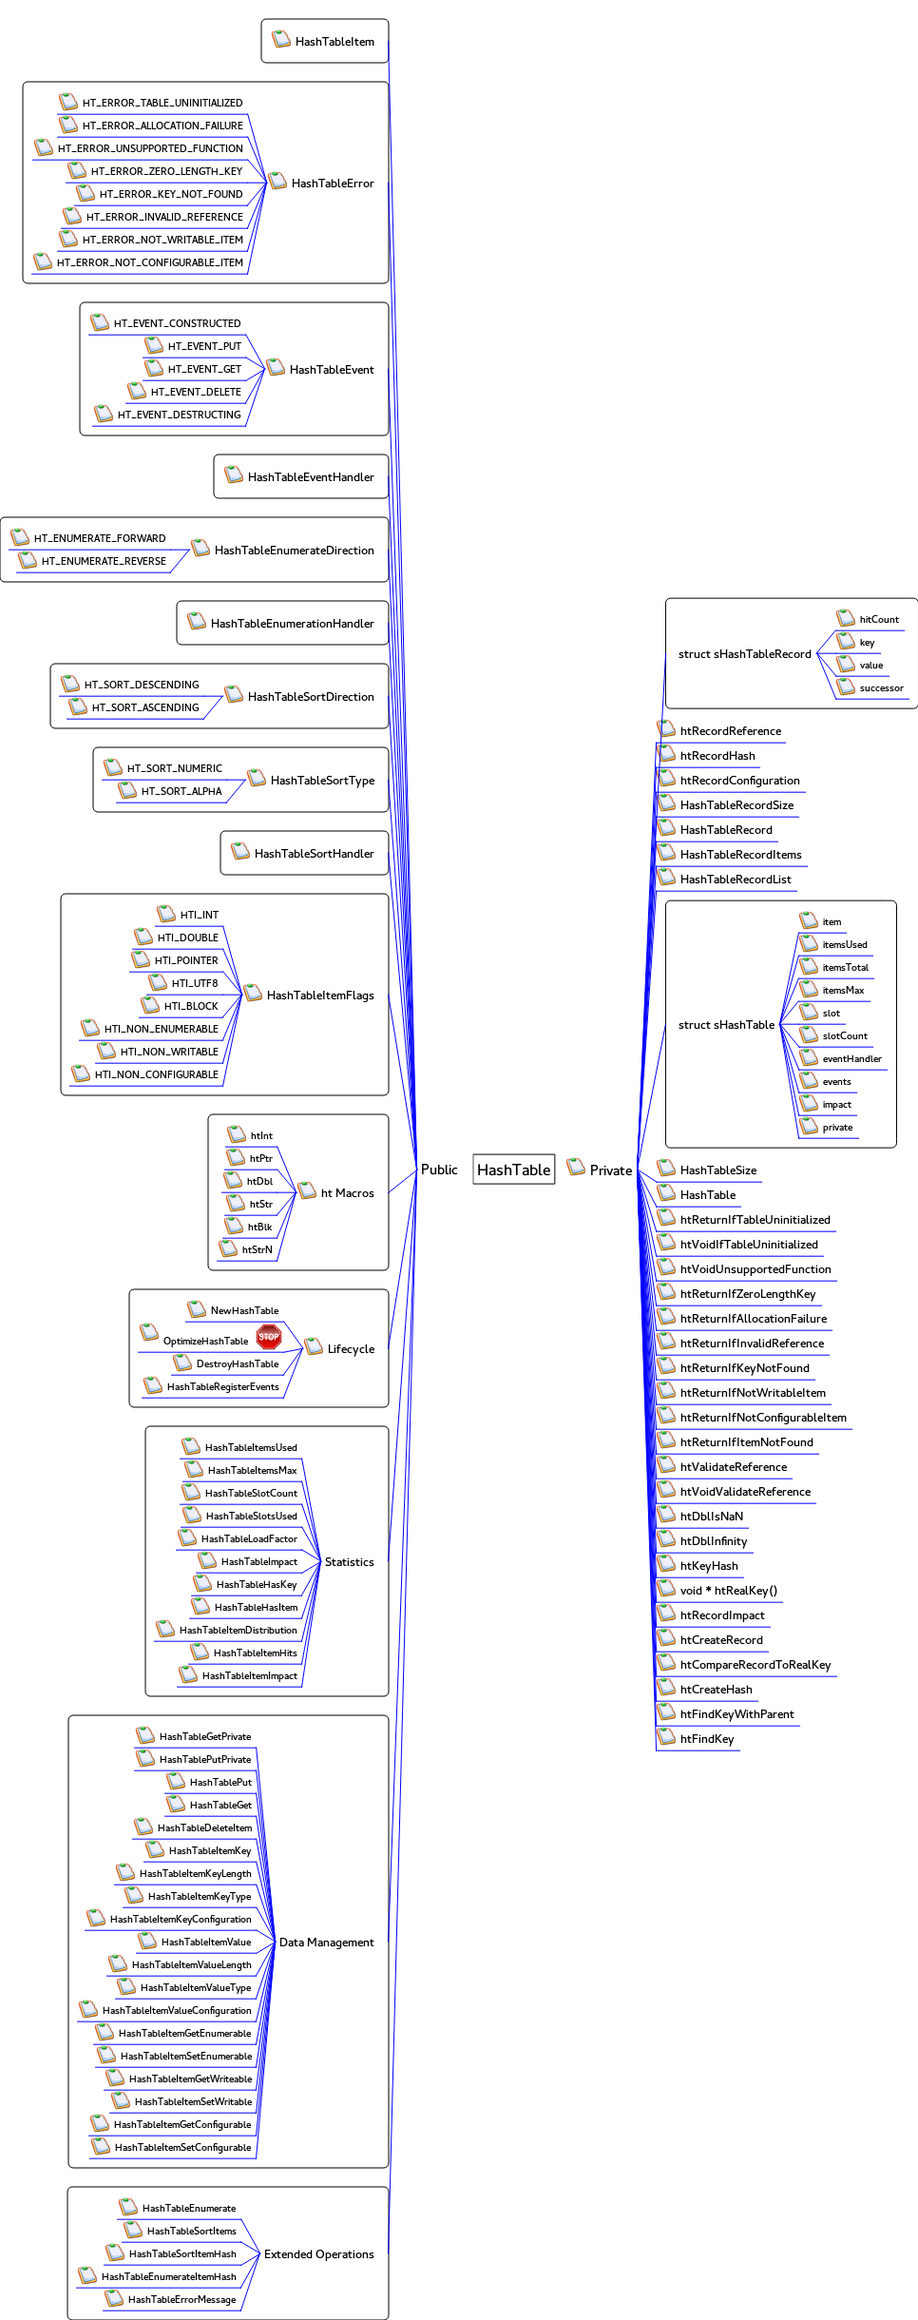
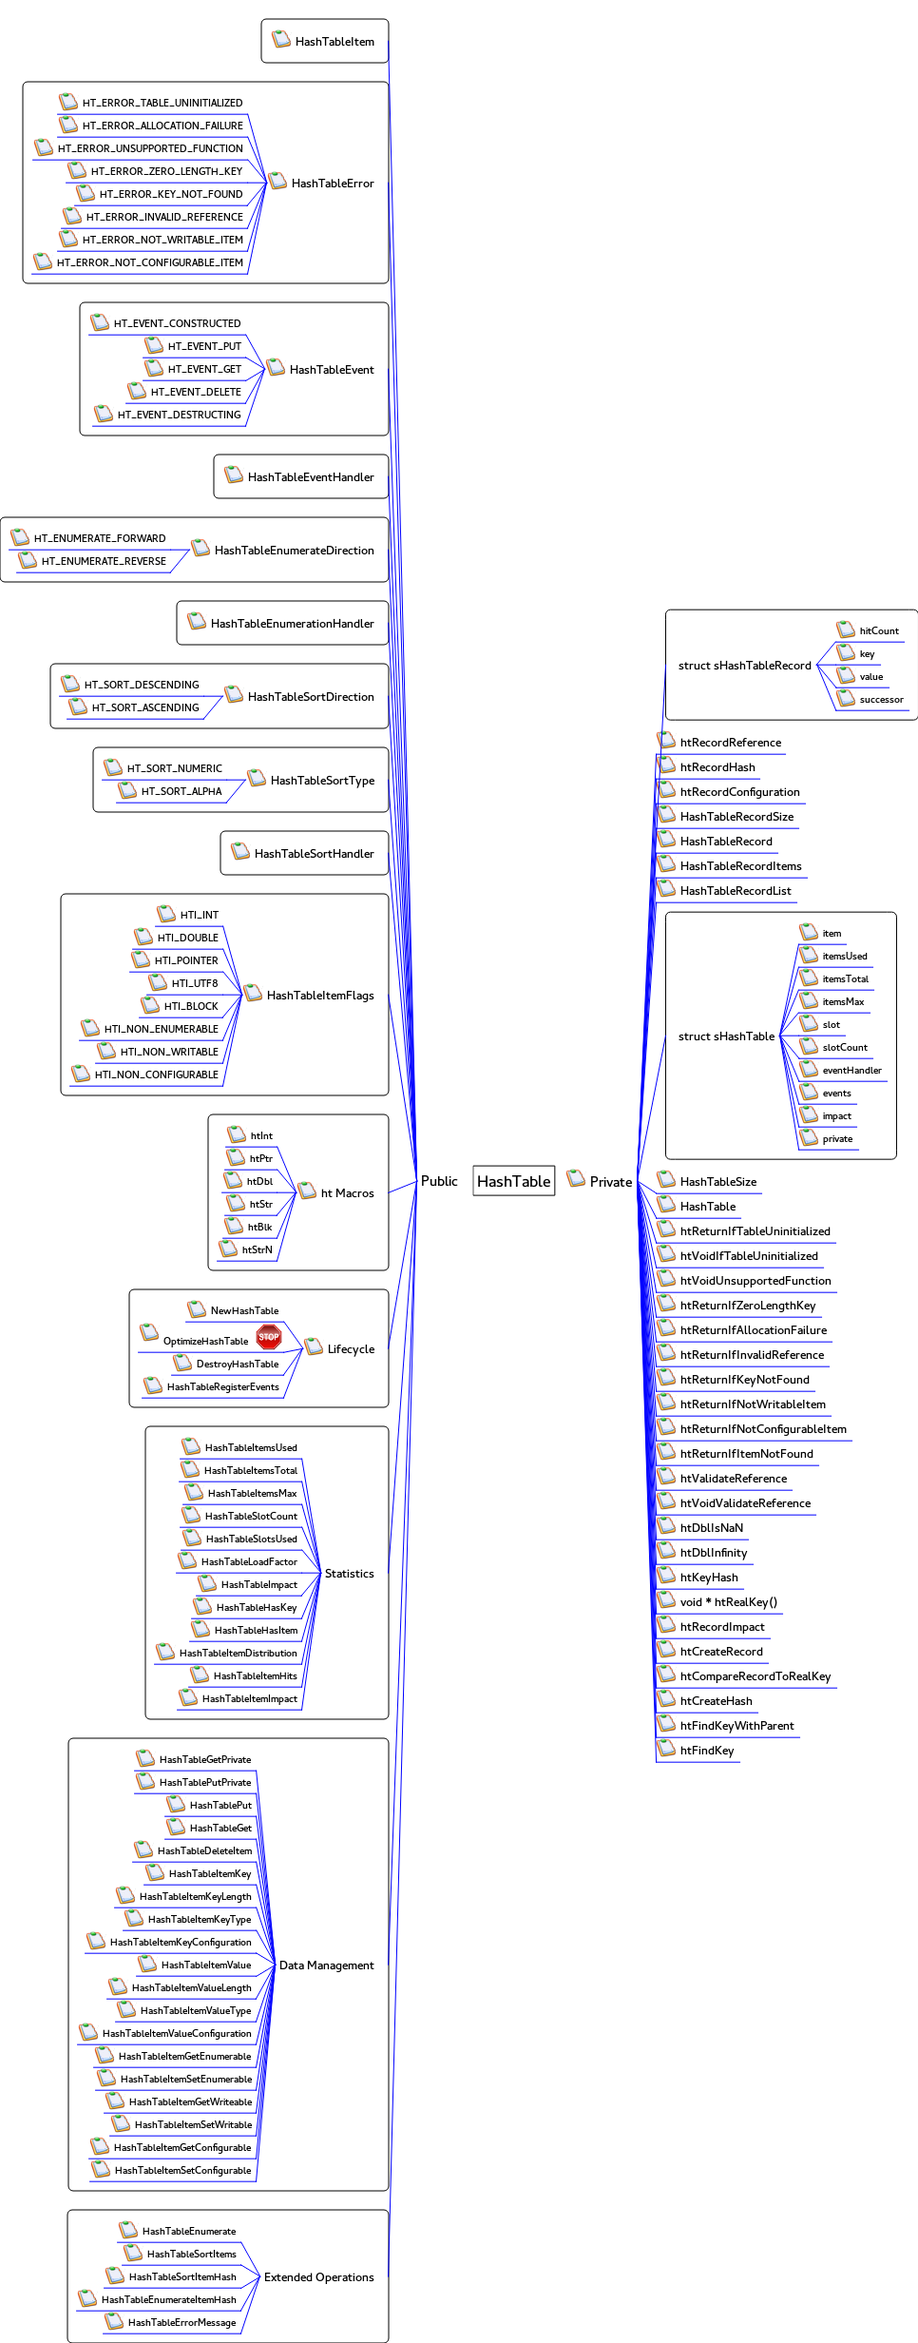
Added hash table items total statistic

diff --git a/HashTable.html b/HashTable.html
@@ -266,55 +266,60 @@ void HashTableRegisterEvents(HashTable ht, HashTableEvent withEvents, HashTableE
 <li><span class='vym-branch2'  id='mc:0,bo:0,bo:12'>Statistics</span><ul>
 <li><span class='vym-branch3'  id='mc:0,bo:0,bo:12,bo:0'>HashTableItemsUsed</span>
 <table class="vym-note"><tr><td>
-size_t HashTableItemsUsed<br/>(<br/>	HashTable ht<br/>)<br/><br/>Returns the number of item references currently defined.<br/>
+size_t HashTableItemsUsed<br/>(<br/>	HashTable ht<br/>)<br/><br/>Returns the number of item references currently dispatched. This number includes items which have been deleted.<br/>
 </td></tr></table>
 </li>
-<li><span class='vym-branch3'  id='mc:0,bo:0,bo:12,bo:1'>HashTableItemsMax</span>
+<li><span class='vym-branch3'  id='mc:0,bo:0,bo:12,bo:1'>HashTableItemsTotal</span>
+<table class="vym-note"><tr><td>
+size_t HashTableItemsTotal<br/>(<br/>	HashTable ht<br/>)<br/><br/>Returns the current number of valid item references.<br/>
+</td></tr></table>
+</li>
+<li><span class='vym-branch3'  id='mc:0,bo:0,bo:12,bo:2'>HashTableItemsMax</span>
 <table class="vym-note"><tr><td>
 size_t HashTableItemsMax<br/>(<br/>	HashTable hashTable<br/>)<br/><br/>Returns the current maximum number of item references. The maximum number of item references grows as needed. This procedure is provided mostly for instrumentation purposes.<br/>
 </td></tr></table>
 </li>
-<li><span class='vym-branch3'  id='mc:0,bo:0,bo:12,bo:2'>HashTableSlotCount</span>
+<li><span class='vym-branch3'  id='mc:0,bo:0,bo:12,bo:3'>HashTableSlotCount</span>
 <table class="vym-note"><tr><td>
 size_t HashTableSlotCount(HashTable ht)<br/><br/>Returns the total number of slots for a particular hash table.<br/>
 </td></tr></table>
 </li>
-<li><span class='vym-branch3'  id='mc:0,bo:0,bo:12,bo:3'>HashTableSlotsUsed</span>
+<li><span class='vym-branch3'  id='mc:0,bo:0,bo:12,bo:4'>HashTableSlotsUsed</span>
 <table class="vym-note"><tr><td>
 size_t HashTableSlotsUsed(HashTable ht)<br/><br/>Returns the number of slots containing one or more records.<br/>
 </td></tr></table>
 </li>
-<li><span class='vym-branch3'  id='mc:0,bo:0,bo:12,bo:4'>HashTableLoadFactor</span>
+<li><span class='vym-branch3'  id='mc:0,bo:0,bo:12,bo:5'>HashTableLoadFactor</span>
 <table class="vym-note"><tr><td>
 double HashTableLoadFactor(HashTable ht)<br/><br/>Returns the total number of hash table records divided by the number of slots for a particular hash table.<br/>
 </td></tr></table>
 </li>
-<li><span class='vym-branch3'  id='mc:0,bo:0,bo:12,bo:5'>HashTableImpact</span>
+<li><span class='vym-branch3'  id='mc:0,bo:0,bo:12,bo:6'>HashTableImpact</span>
 <table class="vym-note"><tr><td>
 size_t HashTableImpact(HashTable ht)<br/><br/>Get report on how many logical bytes this hash table occupies in memory.<br/>
 </td></tr></table>
 </li>
-<li><span class='vym-branch3'  id='mc:0,bo:0,bo:12,bo:6'>HashTableHasKey</span>
+<li><span class='vym-branch3'  id='mc:0,bo:0,bo:12,bo:7'>HashTableHasKey</span>
 <table class="vym-note"><tr><td>
 HashTableItem HashTableHasKey<br/>(<br/>	HashTable hashTable,<br/>	size_t keyLength,<br/>	double key,<br/>	HashTableItemFlags hint<br/>)<br/><br/>This procedure works mostly like HashTableGet, except it does not raise events, and will not throw an error if the key is not found.<br/><br/>Technically the return type for this procedure is bool, however to save API calls, it actually returns the item reference if the key is found due to the fact that item references are factually boolean return values.<br/>
 </td></tr></table>
 </li>
-<li><span class='vym-branch3'  id='mc:0,bo:0,bo:12,bo:7'>HashTableHasItem</span>
+<li><span class='vym-branch3'  id='mc:0,bo:0,bo:12,bo:8'>HashTableHasItem</span>
 <table class="vym-note"><tr><td>
 bool HashTableHasItem<br/>(<br/>	HashTable hashTable,<br/>	HashTableItem reference<br/>)<br/><br/>This procedure checks to see if the reference is in range and if the reference is non-null. Only throws an error if the hash table is uninitialized.<br/><br/>Use this procedure to perform manual enumerations and sorting decisions based on reference existence.<br/>
 </td></tr></table>
 </li>
-<li><span class='vym-branch3'  id='mc:0,bo:0,bo:12,bo:8'>HashTableItemDistribution</span>
+<li><span class='vym-branch3'  id='mc:0,bo:0,bo:12,bo:9'>HashTableItemDistribution</span>
 <table class="vym-note"><tr><td>
 size_t HashTableItemDistribution<br/>(<br/>	HashTable hashTable,<br/>	HashTableItem reference<br/>)<br/><br/>Generate a report on how many entries are associated with an item's hash.
 </td></tr></table>
 </li>
-<li><span class='vym-branch3'  id='mc:0,bo:0,bo:12,bo:9'>HashTableItemHits</span>
+<li><span class='vym-branch3'  id='mc:0,bo:0,bo:12,bo:10'>HashTableItemHits</span>
 <table class="vym-note"><tr><td>
 size_t HashTableItemHits(HashTable ht, HashTableItem reference)<br/><br/>Returns the number of times a hash table item has been set or requested. This operation does not alter any items in the hash table nor does it alter the hash table itself.<br/>
 </td></tr></table>
 </li>
-<li><span class='vym-branch3'  id='mc:0,bo:0,bo:12,bo:10'>HashTableItemImpact</span>
+<li><span class='vym-branch3'  id='mc:0,bo:0,bo:12,bo:11'>HashTableItemImpact</span>
 <table class="vym-note"><tr><td>
 size_t HashTableItemImpact(HashTable ht, HashTableItem reference)<br/><br/>Generates a report on the total number of bytes used to store an item.<br/>
 </td></tr></table>
@@ -689,8 +694,8 @@ HashTableRecord htFindKey(HashTable table, size_t keyLength, void * realKey)<br/
 </li>
 </ul>
 <map name='imagemap'>
-  <area shape='rect' coords='497.851,1214.11,583.851,1245.11' href='#mc:0'>
-  <area shape='rect' coords='439,1215.5,487,1244.5' href='#mc:0,bo:0'>
+  <area shape='rect' coords='497.851,1226.11,583.851,1257.11' href='#mc:0'>
+  <area shape='rect' coords='439,1227.5,487,1256.5' href='#mc:0,bo:0'>
   <area shape='rect' coords='307,30,399,56' href='#mc:0,bo:0,bo:0'>
   <area shape='rect' coords='303,179,399,205' href='#mc:0,bo:0,bo:1'>
   <area shape='rect' coords='83,96,261,120' href='#mc:0,bo:0,bo:1,bo:0'>
@@ -740,92 +745,93 @@ HashTableRecord htFindKey(HashTable table, size_t keyLength, void * realKey)<br/
   <area shape='rect' coords='168,1398,267,1422' href='#mc:0,bo:0,bo:11,bo:1'>
   <area shape='rect' coords='203,1422,299,1446' href='#mc:0,bo:0,bo:11,bo:2'>
   <area shape='rect' coords='172,1446,299,1470' href='#mc:0,bo:0,bo:11,bo:3'>
-  <area shape='rect' coords='338,1629,399,1655' href='#mc:0,bo:0,bo:12'>
+  <area shape='rect' coords='338,1641,399,1667' href='#mc:0,bo:0,bo:12'>
   <area shape='rect' coords='212,1510,318,1534' href='#mc:0,bo:0,bo:12,bo:0'>
-  <area shape='rect' coords='215,1534,318,1558' href='#mc:0,bo:0,bo:12,bo:1'>
-  <area shape='rect' coords='212,1558,318,1582' href='#mc:0,bo:0,bo:12,bo:2'>
-  <area shape='rect' coords='213,1582,318,1606' href='#mc:0,bo:0,bo:12,bo:3'>
-  <area shape='rect' coords='208,1606,318,1630' href='#mc:0,bo:0,bo:12,bo:4'>
-  <area shape='rect' coords='229,1630,318,1654' href='#mc:0,bo:0,bo:12,bo:5'>
-  <area shape='rect' coords='224,1654,318,1678' href='#mc:0,bo:0,bo:12,bo:6'>
-  <area shape='rect' coords='222,1678,318,1702' href='#mc:0,bo:0,bo:12,bo:7'>
-  <area shape='rect' coords='185,1702,318,1726' href='#mc:0,bo:0,bo:12,bo:8'>
-  <area shape='rect' coords='221,1726,318,1750' href='#mc:0,bo:0,bo:12,bo:9'>
-  <area shape='rect' coords='209,1750,318,1774' href='#mc:0,bo:0,bo:12,bo:10'>
-  <area shape='rect' coords='290,2029,399,2055' href='#mc:0,bo:0,bo:13'>
-  <area shape='rect' coords='164,1814,270,1838' href='#mc:0,bo:0,bo:13,bo:0'>
-  <area shape='rect' coords='164,1838,270,1862' href='#mc:0,bo:0,bo:13,bo:1'>
-  <area shape='rect' coords='196,1862,270,1886' href='#mc:0,bo:0,bo:13,bo:2'>
-  <area shape='rect' coords='196,1886,270,1910' href='#mc:0,bo:0,bo:13,bo:3'>
-  <area shape='rect' coords='162,1910,270,1934' href='#mc:0,bo:0,bo:13,bo:4'>
-  <area shape='rect' coords='174,1934,270,1958' href='#mc:0,bo:0,bo:13,bo:5'>
-  <area shape='rect' coords='143,1958,270,1982' href='#mc:0,bo:0,bo:13,bo:6'>
-  <area shape='rect' coords='152,1982,270,2006' href='#mc:0,bo:0,bo:13,bo:7'>
-  <area shape='rect' coords='112,2006,270,2030' href='#mc:0,bo:0,bo:13,bo:8'>
-  <area shape='rect' coords='166,2030,270,2054' href='#mc:0,bo:0,bo:13,bo:9'>
-  <area shape='rect' coords='135,2054,270,2078' href='#mc:0,bo:0,bo:13,bo:10'>
-  <area shape='rect' coords='144,2078,270,2102' href='#mc:0,bo:0,bo:13,bo:11'>
-  <area shape='rect' coords='104,2102,270,2126' href='#mc:0,bo:0,bo:13,bo:12'>
-  <area shape='rect' coords='121,2126,270,2150' href='#mc:0,bo:0,bo:13,bo:13'>
-  <area shape='rect' coords='123,2150,270,2174' href='#mc:0,bo:0,bo:13,bo:14'>
-  <area shape='rect' coords='132,2174,270,2198' href='#mc:0,bo:0,bo:13,bo:15'>
-  <area shape='rect' coords='138,2198,270,2222' href='#mc:0,bo:0,bo:13,bo:16'>
-  <area shape='rect' coords='116,2222,270,2246' href='#mc:0,bo:0,bo:13,bo:17'>
-  <area shape='rect' coords='117,2246,270,2270' href='#mc:0,bo:0,bo:13,bo:18'>
-  <area shape='rect' coords='274,2357,399,2383' href='#mc:0,bo:0,bo:14'>
-  <area shape='rect' coords='146,2310,254,2334' href='#mc:0,bo:0,bo:14,bo:0'>
-  <area shape='rect' coords='151,2334,254,2358' href='#mc:0,bo:0,bo:14,bo:1'>
-  <area shape='rect' coords='132,2358,254,2382' href='#mc:0,bo:0,bo:14,bo:2'>
-  <area shape='rect' coords='103,2382,254,2406' href='#mc:0,bo:0,bo:14,bo:3'>
-  <area shape='rect' coords='131,2406,254,2430' href='#mc:0,bo:0,bo:14,bo:4'>
-  <area shape='rect' coords='617.471,1215.66,670.471,1244.66' href='#mc:0,bo:1'>
-  <area shape='rect' coords='710.471,674.164,859.471,700.164' href='#mc:0,bo:1,bo:0'>
-  <area shape='rect' coords='901.471,639.164,951.471,663.164' href='#mc:0,bo:1,bo:0,bo:0'>
-  <area shape='rect' coords='901.471,663.164,926.471,687.164' href='#mc:0,bo:1,bo:0,bo:1'>
-  <area shape='rect' coords='901.471,687.164,935.471,711.164' href='#mc:0,bo:1,bo:0,bo:2'>
-  <area shape='rect' coords='901.471,711.164,956.471,735.164' href='#mc:0,bo:1,bo:0,bo:3'>
-  <area shape='rect' coords='712.471,755.164,826.471,781.164' href='#mc:0,bo:1,bo:1'>
-  <area shape='rect' coords='712.471,781.164,799.471,807.164' href='#mc:0,bo:1,bo:2'>
-  <area shape='rect' coords='712.471,807.164,847.471,833.164' href='#mc:0,bo:1,bo:3'>
-  <area shape='rect' coords='712.471,833.164,840.471,859.164' href='#mc:0,bo:1,bo:4'>
-  <area shape='rect' coords='712.471,859.164,818.471,885.164' href='#mc:0,bo:1,bo:5'>
-  <area shape='rect' coords='712.471,885.164,849.471,911.164' href='#mc:0,bo:1,bo:6'>
-  <area shape='rect' coords='712.471,911.164,838.471,937.164' href='#mc:0,bo:1,bo:7'>
-  <area shape='rect' coords='710.471,1064.16,820.471,1090.16' href='#mc:0,bo:1,bo:8'>
-  <area shape='rect' coords='862.471,957.164,890.471,981.164' href='#mc:0,bo:1,bo:8,bo:0'>
-  <area shape='rect' coords='862.471,981.164,918.471,1005.16' href='#mc:0,bo:1,bo:8,bo:1'>
-  <area shape='rect' coords='862.471,1005.16,919.471,1029.16' href='#mc:0,bo:1,bo:8,bo:2'>
-  <area shape='rect' coords='862.471,1029.16,915.471,1053.16' href='#mc:0,bo:1,bo:8,bo:3'>
-  <area shape='rect' coords='862.471,1053.16,889.471,1077.16' href='#mc:0,bo:1,bo:8,bo:4'>
-  <area shape='rect' coords='862.471,1077.16,918.471,1101.16' href='#mc:0,bo:1,bo:8,bo:5'>
-  <area shape='rect' coords='862.471,1101.16,933.471,1125.16' href='#mc:0,bo:1,bo:8,bo:6'>
-  <area shape='rect' coords='862.471,1125.16,901.471,1149.16' href='#mc:0,bo:1,bo:8,bo:7'>
-  <area shape='rect' coords='862.471,1149.16,901.471,1173.16' href='#mc:0,bo:1,bo:8,bo:8'>
-  <area shape='rect' coords='862.471,1173.16,903.471,1197.16' href='#mc:0,bo:1,bo:8,bo:9'>
-  <area shape='rect' coords='712.471,1217.16,801.471,1243.16' href='#mc:0,bo:1,bo:9'>
-  <area shape='rect' coords='712.471,1243.16,779.471,1269.16' href='#mc:0,bo:1,bo:10'>
-  <area shape='rect' coords='712.471,1269.16,879.471,1295.16' href='#mc:0,bo:1,bo:11'>
-  <area shape='rect' coords='712.471,1295.16,866.471,1321.16' href='#mc:0,bo:1,bo:12'>
-  <area shape='rect' coords='712.471,1321.16,880.471,1347.16' href='#mc:0,bo:1,bo:13'>
-  <area shape='rect' coords='712.471,1347.16,864.471,1373.16' href='#mc:0,bo:1,bo:14'>
-  <area shape='rect' coords='712.471,1373.16,875.471,1399.16' href='#mc:0,bo:1,bo:15'>
-  <area shape='rect' coords='712.471,1399.16,872.471,1425.16' href='#mc:0,bo:1,bo:16'>
-  <area shape='rect' coords='712.471,1425.16,857.471,1451.16' href='#mc:0,bo:1,bo:17'>
-  <area shape='rect' coords='712.471,1451.16,874.471,1477.16' href='#mc:0,bo:1,bo:18'>
-  <area shape='rect' coords='712.471,1477.16,896.471,1503.16' href='#mc:0,bo:1,bo:19'>
-  <area shape='rect' coords='712.471,1503.16,861.471,1529.16' href='#mc:0,bo:1,bo:20'>
-  <area shape='rect' coords='712.471,1529.16,833.471,1555.16' href='#mc:0,bo:1,bo:21'>
-  <area shape='rect' coords='712.471,1555.16,858.471,1581.16' href='#mc:0,bo:1,bo:22'>
-  <area shape='rect' coords='712.471,1581.16,787.471,1607.16' href='#mc:0,bo:1,bo:23'>
-  <area shape='rect' coords='712.471,1607.16,792.471,1633.16' href='#mc:0,bo:1,bo:24'>
-  <area shape='rect' coords='712.471,1633.16,782.471,1659.16' href='#mc:0,bo:1,bo:25'>
-  <area shape='rect' coords='712.471,1659.16,823.471,1685.16' href='#mc:0,bo:1,bo:26'>
-  <area shape='rect' coords='712.471,1685.16,810.471,1711.16' href='#mc:0,bo:1,bo:27'>
-  <area shape='rect' coords='712.471,1711.16,808.471,1737.16' href='#mc:0,bo:1,bo:28'>
-  <area shape='rect' coords='712.471,1737.16,880.471,1763.16' href='#mc:0,bo:1,bo:29'>
-  <area shape='rect' coords='712.471,1763.16,797.471,1789.16' href='#mc:0,bo:1,bo:30'>
-  <area shape='rect' coords='712.471,1789.16,841.471,1815.16' href='#mc:0,bo:1,bo:31'>
-  <area shape='rect' coords='712.471,1815.16,778.471,1841.16' href='#mc:0,bo:1,bo:32'>
+  <area shape='rect' coords='211,1534,318,1558' href='#mc:0,bo:0,bo:12,bo:1'>
+  <area shape='rect' coords='215,1558,318,1582' href='#mc:0,bo:0,bo:12,bo:2'>
+  <area shape='rect' coords='212,1582,318,1606' href='#mc:0,bo:0,bo:12,bo:3'>
+  <area shape='rect' coords='213,1606,318,1630' href='#mc:0,bo:0,bo:12,bo:4'>
+  <area shape='rect' coords='208,1630,318,1654' href='#mc:0,bo:0,bo:12,bo:5'>
+  <area shape='rect' coords='229,1654,318,1678' href='#mc:0,bo:0,bo:12,bo:6'>
+  <area shape='rect' coords='224,1678,318,1702' href='#mc:0,bo:0,bo:12,bo:7'>
+  <area shape='rect' coords='222,1702,318,1726' href='#mc:0,bo:0,bo:12,bo:8'>
+  <area shape='rect' coords='185,1726,318,1750' href='#mc:0,bo:0,bo:12,bo:9'>
+  <area shape='rect' coords='221,1750,318,1774' href='#mc:0,bo:0,bo:12,bo:10'>
+  <area shape='rect' coords='209,1774,318,1798' href='#mc:0,bo:0,bo:12,bo:11'>
+  <area shape='rect' coords='290,2053,399,2079' href='#mc:0,bo:0,bo:13'>
+  <area shape='rect' coords='164,1838,270,1862' href='#mc:0,bo:0,bo:13,bo:0'>
+  <area shape='rect' coords='164,1862,270,1886' href='#mc:0,bo:0,bo:13,bo:1'>
+  <area shape='rect' coords='196,1886,270,1910' href='#mc:0,bo:0,bo:13,bo:2'>
+  <area shape='rect' coords='196,1910,270,1934' href='#mc:0,bo:0,bo:13,bo:3'>
+  <area shape='rect' coords='162,1934,270,1958' href='#mc:0,bo:0,bo:13,bo:4'>
+  <area shape='rect' coords='174,1958,270,1982' href='#mc:0,bo:0,bo:13,bo:5'>
+  <area shape='rect' coords='143,1982,270,2006' href='#mc:0,bo:0,bo:13,bo:6'>
+  <area shape='rect' coords='152,2006,270,2030' href='#mc:0,bo:0,bo:13,bo:7'>
+  <area shape='rect' coords='112,2030,270,2054' href='#mc:0,bo:0,bo:13,bo:8'>
+  <area shape='rect' coords='166,2054,270,2078' href='#mc:0,bo:0,bo:13,bo:9'>
+  <area shape='rect' coords='135,2078,270,2102' href='#mc:0,bo:0,bo:13,bo:10'>
+  <area shape='rect' coords='144,2102,270,2126' href='#mc:0,bo:0,bo:13,bo:11'>
+  <area shape='rect' coords='104,2126,270,2150' href='#mc:0,bo:0,bo:13,bo:12'>
+  <area shape='rect' coords='121,2150,270,2174' href='#mc:0,bo:0,bo:13,bo:13'>
+  <area shape='rect' coords='123,2174,270,2198' href='#mc:0,bo:0,bo:13,bo:14'>
+  <area shape='rect' coords='132,2198,270,2222' href='#mc:0,bo:0,bo:13,bo:15'>
+  <area shape='rect' coords='138,2222,270,2246' href='#mc:0,bo:0,bo:13,bo:16'>
+  <area shape='rect' coords='116,2246,270,2270' href='#mc:0,bo:0,bo:13,bo:17'>
+  <area shape='rect' coords='117,2270,270,2294' href='#mc:0,bo:0,bo:13,bo:18'>
+  <area shape='rect' coords='274,2381,399,2407' href='#mc:0,bo:0,bo:14'>
+  <area shape='rect' coords='146,2334,254,2358' href='#mc:0,bo:0,bo:14,bo:0'>
+  <area shape='rect' coords='151,2358,254,2382' href='#mc:0,bo:0,bo:14,bo:1'>
+  <area shape='rect' coords='132,2382,254,2406' href='#mc:0,bo:0,bo:14,bo:2'>
+  <area shape='rect' coords='103,2406,254,2430' href='#mc:0,bo:0,bo:14,bo:3'>
+  <area shape='rect' coords='131,2430,254,2454' href='#mc:0,bo:0,bo:14,bo:4'>
+  <area shape='rect' coords='617.471,1227.66,670.471,1256.66' href='#mc:0,bo:1'>
+  <area shape='rect' coords='710.471,686.164,859.471,712.164' href='#mc:0,bo:1,bo:0'>
+  <area shape='rect' coords='901.471,651.164,951.471,675.164' href='#mc:0,bo:1,bo:0,bo:0'>
+  <area shape='rect' coords='901.471,675.164,926.471,699.164' href='#mc:0,bo:1,bo:0,bo:1'>
+  <area shape='rect' coords='901.471,699.164,935.471,723.164' href='#mc:0,bo:1,bo:0,bo:2'>
+  <area shape='rect' coords='901.471,723.164,956.471,747.164' href='#mc:0,bo:1,bo:0,bo:3'>
+  <area shape='rect' coords='712.471,767.164,826.471,793.164' href='#mc:0,bo:1,bo:1'>
+  <area shape='rect' coords='712.471,793.164,799.471,819.164' href='#mc:0,bo:1,bo:2'>
+  <area shape='rect' coords='712.471,819.164,847.471,845.164' href='#mc:0,bo:1,bo:3'>
+  <area shape='rect' coords='712.471,845.164,840.471,871.164' href='#mc:0,bo:1,bo:4'>
+  <area shape='rect' coords='712.471,871.164,818.471,897.164' href='#mc:0,bo:1,bo:5'>
+  <area shape='rect' coords='712.471,897.164,849.471,923.164' href='#mc:0,bo:1,bo:6'>
+  <area shape='rect' coords='712.471,923.164,838.471,949.164' href='#mc:0,bo:1,bo:7'>
+  <area shape='rect' coords='710.471,1076.16,820.471,1102.16' href='#mc:0,bo:1,bo:8'>
+  <area shape='rect' coords='862.471,969.164,890.471,993.164' href='#mc:0,bo:1,bo:8,bo:0'>
+  <area shape='rect' coords='862.471,993.164,918.471,1017.16' href='#mc:0,bo:1,bo:8,bo:1'>
+  <area shape='rect' coords='862.471,1017.16,919.471,1041.16' href='#mc:0,bo:1,bo:8,bo:2'>
+  <area shape='rect' coords='862.471,1041.16,915.471,1065.16' href='#mc:0,bo:1,bo:8,bo:3'>
+  <area shape='rect' coords='862.471,1065.16,889.471,1089.16' href='#mc:0,bo:1,bo:8,bo:4'>
+  <area shape='rect' coords='862.471,1089.16,918.471,1113.16' href='#mc:0,bo:1,bo:8,bo:5'>
+  <area shape='rect' coords='862.471,1113.16,933.471,1137.16' href='#mc:0,bo:1,bo:8,bo:6'>
+  <area shape='rect' coords='862.471,1137.16,901.471,1161.16' href='#mc:0,bo:1,bo:8,bo:7'>
+  <area shape='rect' coords='862.471,1161.16,901.471,1185.16' href='#mc:0,bo:1,bo:8,bo:8'>
+  <area shape='rect' coords='862.471,1185.16,903.471,1209.16' href='#mc:0,bo:1,bo:8,bo:9'>
+  <area shape='rect' coords='712.471,1229.16,801.471,1255.16' href='#mc:0,bo:1,bo:9'>
+  <area shape='rect' coords='712.471,1255.16,779.471,1281.16' href='#mc:0,bo:1,bo:10'>
+  <area shape='rect' coords='712.471,1281.16,879.471,1307.16' href='#mc:0,bo:1,bo:11'>
+  <area shape='rect' coords='712.471,1307.16,866.471,1333.16' href='#mc:0,bo:1,bo:12'>
+  <area shape='rect' coords='712.471,1333.16,880.471,1359.16' href='#mc:0,bo:1,bo:13'>
+  <area shape='rect' coords='712.471,1359.16,864.471,1385.16' href='#mc:0,bo:1,bo:14'>
+  <area shape='rect' coords='712.471,1385.16,875.471,1411.16' href='#mc:0,bo:1,bo:15'>
+  <area shape='rect' coords='712.471,1411.16,872.471,1437.16' href='#mc:0,bo:1,bo:16'>
+  <area shape='rect' coords='712.471,1437.16,857.471,1463.16' href='#mc:0,bo:1,bo:17'>
+  <area shape='rect' coords='712.471,1463.16,874.471,1489.16' href='#mc:0,bo:1,bo:18'>
+  <area shape='rect' coords='712.471,1489.16,896.471,1515.16' href='#mc:0,bo:1,bo:19'>
+  <area shape='rect' coords='712.471,1515.16,861.471,1541.16' href='#mc:0,bo:1,bo:20'>
+  <area shape='rect' coords='712.471,1541.16,833.471,1567.16' href='#mc:0,bo:1,bo:21'>
+  <area shape='rect' coords='712.471,1567.16,858.471,1593.16' href='#mc:0,bo:1,bo:22'>
+  <area shape='rect' coords='712.471,1593.16,787.471,1619.16' href='#mc:0,bo:1,bo:23'>
+  <area shape='rect' coords='712.471,1619.16,792.471,1645.16' href='#mc:0,bo:1,bo:24'>
+  <area shape='rect' coords='712.471,1645.16,782.471,1671.16' href='#mc:0,bo:1,bo:25'>
+  <area shape='rect' coords='712.471,1671.16,823.471,1697.16' href='#mc:0,bo:1,bo:26'>
+  <area shape='rect' coords='712.471,1697.16,810.471,1723.16' href='#mc:0,bo:1,bo:27'>
+  <area shape='rect' coords='712.471,1723.16,808.471,1749.16' href='#mc:0,bo:1,bo:28'>
+  <area shape='rect' coords='712.471,1749.16,880.471,1775.16' href='#mc:0,bo:1,bo:29'>
+  <area shape='rect' coords='712.471,1775.16,797.471,1801.16' href='#mc:0,bo:1,bo:30'>
+  <area shape='rect' coords='712.471,1801.16,841.471,1827.16' href='#mc:0,bo:1,bo:31'>
+  <area shape='rect' coords='712.471,1827.16,778.471,1853.16' href='#mc:0,bo:1,bo:32'>
 </map>
 <hr/>
 <table class="vym-footer">   

diff --git a/src/HashTable.c b/src/HashTable.c
@@ -333,6 +333,14 @@ size_t HashTableItemsUsed
 	return ht->itemsUsed;
 }
 
+size_t HashTableItemsTotal
+(
+	HashTable ht
+) {
+	htReturnIfTableUninitialized(ht);
+	return ht->itemsTotal;
+}
+
 size_t HashTableItemsMax
 (
 	HashTable ht

diff --git a/src/HashTable.h b/src/HashTable.h
@@ -163,6 +163,11 @@ size_t HashTableItemsUsed
 	HashTable hashTable
 );
 
+size_t HashTableItemsTotal
+(
+	HashTable hashTable
+);
+
 size_t HashTableItemsMax
 (
 	HashTable hashTable
